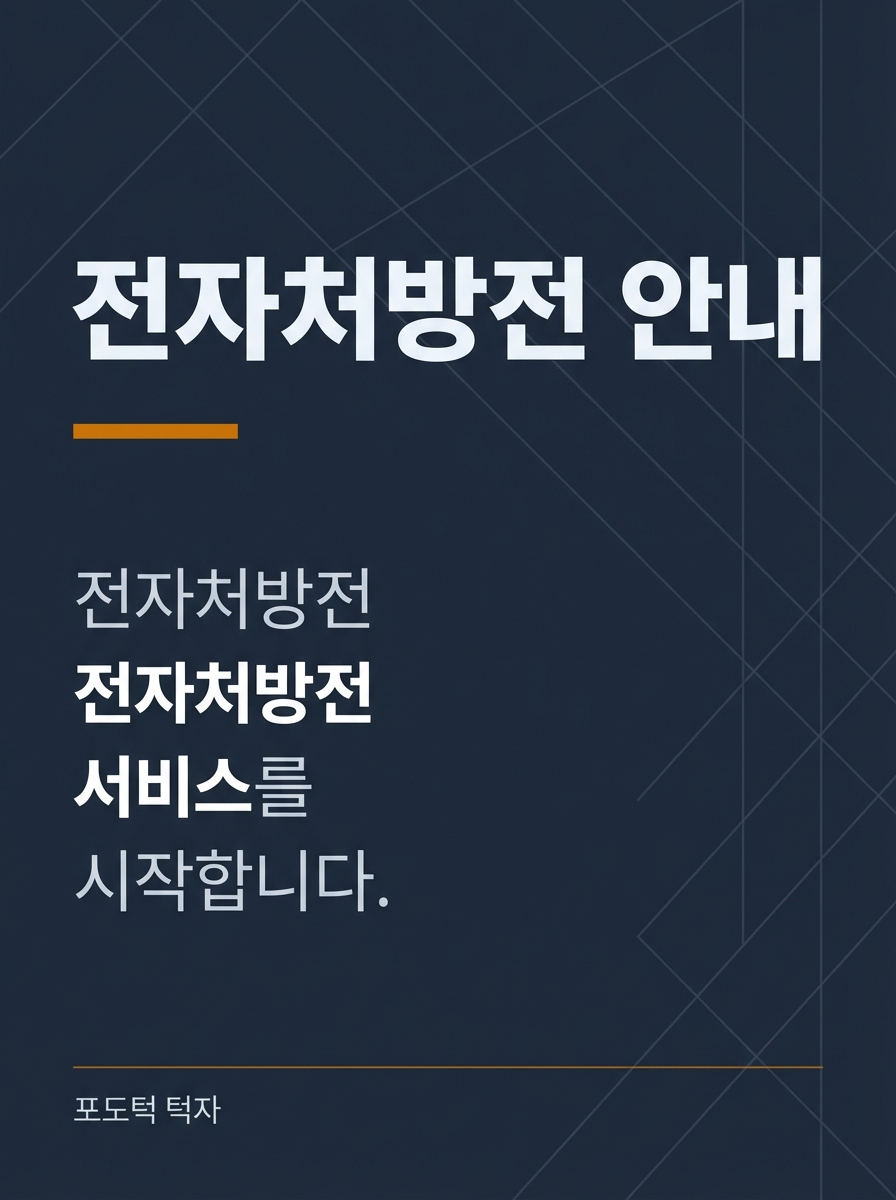
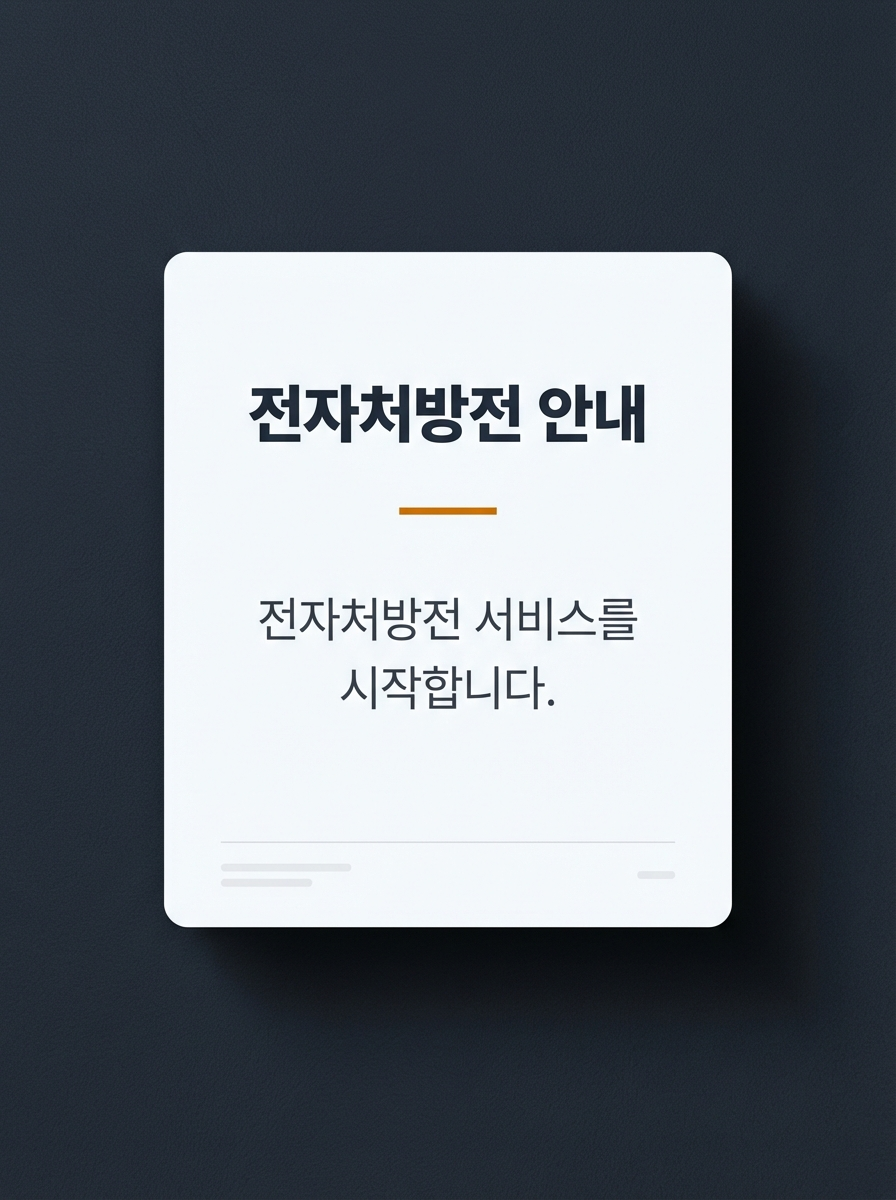
공지 6개 aiPrompt: 물리적 오브제 테마로 전면 교체 + 프리뷰 재생성
각 템플릿에 AI가 반드시 그려야 하는 물리적 오브제 지정:
- clean_white: 베이지 벽 + 마스킹 테이프로 붙인 종이
- soft_blue: 파란 두꺼운 프레임 + 중앙 아이콘 원형
- warm_cream: 코르크보드 + 푸시핀으로 고정된 메모
- mint_fresh: 민트 봉투에서 꺼낸 편지
- slate_modern: 다크 슬레이트 위 플로팅 카드 (그림자)
- peach_soft: 피치 배경 + 와시테이프로 붙인 메모패드

프리뷰 6장 3:4 재생성

https://claude.ai/code/session_0146MbTZpAY12j7EZ6V4viNe

diff --git a/next-app/lib/categoryTemplates.ts b/next-app/lib/categoryTemplates.ts
@@ -804,160 +804,202 @@ Mobile readability: name 28pt+, credentials 12pt+.`,
     {
       id: "ntc_clean_white", name: "클린 화이트", color: "#374151", accent: "#111827", bg: "#ffffff",
       desc: "순백 배경 + 차콜 타이포 + 얇은 라인 — 가장 깔끔한 공지", layoutHint: "minimal",
-      aiPrompt: `[CRITICAL — THIS IS A PREMIUM INSTAGRAM-STYLE POSTER]
+      aiPrompt: `[CRITICAL — THIS IS A DESIGNED NOTICE POSTER WITH PHYSICAL OBJECTS]
 ⛔ STRICT CONTENT RULES:
 - DO NOT add any information the user did not provide.
 - DO NOT generate fake Korean text. Leave areas blank or use only user-provided text.
 - DO NOT add fake disclaimers, footnotes, or fine print.
-- DO NOT invent hospital names, phone numbers, or addresses.
 - ONLY use text the user explicitly provided.
 
-Korean hospital notice poster — EDITORIAL WHITE theme. Think Kinfolk magazine layout.
+Korean hospital notice poster — TAPED PAPER ON BEIGE WALL theme.
 
-VISUAL STRUCTURE — the poster MUST have this specific layout:
-TOP 25%: Pure white space with NOTHING except a tiny gray hospital cross (+) icon at top-center, 8% opacity.
-MIDDLE 50%: A large charcoal (#1e293b) rectangular BLOCK spanning 80% width, centered, with rounded corners (8px). Inside the block: the notice title in MASSIVE bold white text (48pt+). This dark block floating on white is THE signature design element. Below the title inside the block: thin white line (1px) then subtitle in light gray (#94a3b8) if provided.
-BOTTOM 25%: White space. Notice content (if any) in charcoal (#374151) text with generous spacing. Left-aligned with a thin charcoal vertical line (2px) running along the left edge of the text.
+VISUAL CONCEPT: A white sheet of paper taped to a warm beige wall. The paper has real paper texture with subtle creases/folds. Two pieces of light blue masking tape (washi tape) — one at top-left corner, one at bottom-right corner — holding the paper to the wall. The tape looks realistic, slightly wrinkled, semi-transparent.
 
-THE DARK BLOCK IS MANDATORY. Without it, the design has no identity.
-Background is pure white. Only colors: white + charcoal + light gray.
+BACKGROUND (THE WALL): Warm beige/tan (#d4c5a9) with subtle diagonal shadow lines (like sunlight through blinds) at 10% opacity. Real wall texture.
 
-STRICT ANCHORS: Dark charcoal block with white title inside, pure white background, editorial magazine aesthetic.
-INSPIRED FREEDOM: Block proportions, corner radius, icon style.
-Mobile readability: title 44pt+, body 14pt+.`,
+THE PAPER (centered, 80% of image): White paper (#ffffff) with very subtle paper texture and light crease lines. Slightly rotated (-1 to 1 degree) to feel natural/casual. Soft drop shadow behind paper.
+
+ON THE PAPER:
+- Top area: date in small serif gray text if user provided
+- Center: Large title in elegant brown/gold serif typography (40pt+)
+- Below title: thin gray horizontal line
+- Below line: notice content in dark gray (#374151) clean sans-serif text
+- Bottom: thin gray line + hospital name in small text
+
+THE BLUE TAPE AND PAPER TEXTURE ARE MANDATORY. Without them it is just text on white.
+
+STRICT ANCHORS: Beige wall background, white paper with creases, blue masking tape at two corners, shadow lines on wall, serif title, realistic stationery feel.
+Mobile readability: title 36pt+, body 13pt+.`,
     },
+
+
 
 
     {
       id: "ntc_soft_blue", name: "소프트 블루", color: "#1e3a8a", accent: "#3b82f6", bg: "#eff6ff",
       desc: "연한 하늘색 배경 + 네이비 타이포 — 신뢰감 있는 공지", layoutHint: "blue",
-      aiPrompt: `[CRITICAL — THIS IS A PREMIUM INSTAGRAM-STYLE POSTER]
+      aiPrompt: `[CRITICAL — THIS IS A DESIGNED NOTICE POSTER WITH PHYSICAL OBJECTS]
 ⛔ STRICT CONTENT RULES:
 - DO NOT add any information the user did not provide.
 - DO NOT generate fake Korean text. Leave areas blank or use only user-provided text.
 - DO NOT add fake disclaimers, footnotes, or fine print.
-- DO NOT invent hospital names, phone numbers, or addresses.
 - ONLY use text the user explicitly provided.
 
-Korean hospital notice poster — IMMERSIVE BLUE SKY theme. Think airline premium lounge signage.
+Korean hospital notice poster — BLUE FRAME WITH ICON theme.
 
-VISUAL STRUCTURE — the poster MUST have this specific layout:
-ENTIRE BACKGROUND: Deep blue (#1e40af) at top-left corner, radiating outward to sky blue (#60a5fa) at center, fading to very light blue (#eff6ff) at bottom-right. Across the ENTIRE surface: soft glowing circular bokeh lights (6-8 circles, various sizes from tiny to large) in white/light blue at 10-20% opacity. The bokeh creates a dreamy, premium atmosphere EVERYWHERE.
-FLOATING CARD: A frosted white card (rounded 24px, backdrop-blur effect, 88% opacity, border: 0.5px white at 30% opacity) positioned at center, spanning 75% width and 55% height. Inside the card: notice title in deep navy (#0f172a) bold text (36pt+). Below title: thin blue (#60a5fa) line. Content text in navy (#1e3a8a), generous spacing.
-NO TEXT OUTSIDE THE CARD except hospital name in small white at very top on the blue gradient.
+VISUAL CONCEPT: Clean poster with a prominent light blue (#bfdbfe) thick border frame around the entire image. Inside the frame: white background. A large circular icon in the center acts as the visual anchor.
 
-THE BOKEH LIGHTS AND FROSTED CARD ARE MANDATORY. Without them, it is just blue text on blue.
+BACKGROUND: Pure white inside the frame. Light blue (#e0f2fe) outside/behind the frame (visible as the thick border).
 
-STRICT ANCHORS: Full-bleed blue gradient, bokeh light circles, frosted glass card, deep navy text inside card.
-INSPIRED FREEDOM: Bokeh density/sizes, blue shade range, card opacity, gradient direction.
-Mobile readability: title 32pt+, body 13pt+.`,
+FRAME: Light blue (#93c5fd) thick border — 20px on all sides. Creates a clean framed bulletin board feel.
+
+INSIDE THE FRAME:
+- Top 30%: Small label text "NOTICE" in light blue, letter-spacing +4px, uppercase. Below: notice title in MASSIVE bold dark navy (#0f172a) text (44pt+, weight 900).
+- Center 35%: Large circular icon (80px diameter) — light blue (#3b82f6) circle with white simple icon inside (calendar with checkmark, or megaphone, or bell). This icon is THE visual centerpiece.
+- Bottom 35%: Notice content in dark text, centered. Date/time highlighted with light blue background strip.
+
+THE THICK BLUE FRAME AND CENTER ICON ARE MANDATORY.
+
+STRICT ANCHORS: Thick light blue border frame, large circular icon centerpiece, bold dark title, clean white interior, bulletin board aesthetic.
+Mobile readability: title 40pt+, body 13pt+.`,
     },
+
+
 
 
     {
       id: "ntc_warm_cream", name: "웜 크림", color: "#78583d", accent: "#c9a96e", bg: "#faf7f2",
       desc: "따뜻한 크림 배경 + 갈색 타이포 + 골드 악센트 — 고급 공지", layoutHint: "cream",
-      aiPrompt: `[CRITICAL — THIS IS A PREMIUM INSTAGRAM-STYLE POSTER]
+      aiPrompt: `[CRITICAL — THIS IS A DESIGNED NOTICE POSTER WITH PHYSICAL OBJECTS]
 ⛔ STRICT CONTENT RULES:
 - DO NOT add any information the user did not provide.
 - DO NOT generate fake Korean text. Leave areas blank or use only user-provided text.
 - DO NOT add fake disclaimers, footnotes, or fine print.
-- DO NOT invent hospital names, phone numbers, or addresses.
 - ONLY use text the user explicitly provided.
 
-Korean hospital notice poster — LUXURY GOLD STATIONERY theme. Think Cartier invitation card.
+Korean hospital notice poster — CORK BOARD WITH PINNED NOTE theme.
 
-VISUAL STRUCTURE — the poster MUST have this specific layout:
-ENTIRE BACKGROUND: Warm ivory (#faf5ef) with visible LINEN PAPER TEXTURE at 6-8% opacity — the texture must be noticeable, like real luxury stationery paper. The entire surface has a subtle metallic gold shimmer at 3-4% opacity.
-GOLD FRAME: A thin DOUBLE-LINE gold (#c9a96e) rectangular frame (outer line 1px, inner line 0.5px, 4px gap) inset 5% from all edges. Four small gold corner bracket ornaments at frame corners. This frame is THE signature element.
-INSIDE FRAME — TOP: Notice title in warm brown (#5c3d1e) serif-leaning text (36pt+, weight 700). Below title: thin gold line with small diamond centered.
-INSIDE FRAME — MIDDLE: Content text in warm brown (#5c4a32), generous spacing, serif-leaning.
-INSIDE FRAME — BOTTOM: Small gold text for date/hospital name.
+VISUAL CONCEPT: A cork bulletin board texture as the background. A white note card pinned to the board with a colorful push pin at the top center. The note card has a slight shadow and slight rotation for realism.
 
-THE GOLD DOUBLE FRAME WITH CORNER BRACKETS IS MANDATORY.
+BACKGROUND: Cork board texture (#c4a265 to #b8956a) — realistic cork material with visible grain and small dots. Fills entire image.
 
-STRICT ANCHORS: Linen texture, gold double-line frame, corner brackets, warm brown serif text, diamond ornament, luxury stationery mood.
-INSPIRED FREEDOM: Frame thickness, bracket ornament style, serif amount, gold shade.
+THE NOTE CARD: White card (#ffffff) with rounded corners (8px), centered, spanning 80% width and 85% height. Slight rotation (-0.5 to 0.5 degree). Realistic drop shadow (offset 4px, blur 12px). Paper texture visible on the card.
+
+PUSH PIN: At top-center of the card. Realistic 3D push pin — red or gold metallic, with visible pin shaft and shadow. THE key visual element.
+
+ON THE CARD:
+- Top: Notice title in warm brown (#5c3d1e) bold serif text (36pt+)
+- Below title: thin gold (#c9a96e) decorative line with small diamond
+- Middle: Content text in warm brown (#5c4a32), generous spacing
+- Bottom: Date and hospital name in lighter brown
+
+THE CORK TEXTURE AND PUSH PIN ARE MANDATORY.
+
+STRICT ANCHORS: Cork board background, white pinned note card, realistic push pin, paper shadow, warm brown serif typography, bulletin board realism.
 Mobile readability: title 32pt+, body 13pt+.`,
     },
+
+
 
 
     {
       id: "ntc_mint_fresh", name: "민트 프레시", color: "#0f766e", accent: "#10b981", bg: "#f0fdfa",
       desc: "민트 그라데이션 + 다크그린 타이포 — 상쾌한 공지", layoutHint: "mint",
-      aiPrompt: `[CRITICAL — THIS IS A PREMIUM INSTAGRAM-STYLE POSTER]
+      aiPrompt: `[CRITICAL — THIS IS A DESIGNED NOTICE POSTER WITH PHYSICAL OBJECTS]
 ⛔ STRICT CONTENT RULES:
 - DO NOT add any information the user did not provide.
 - DO NOT generate fake Korean text. Leave areas blank or use only user-provided text.
 - DO NOT add fake disclaimers, footnotes, or fine print.
-- DO NOT invent hospital names, phone numbers, or addresses.
 - ONLY use text the user explicitly provided.
 
-Korean hospital notice poster — BOTANICAL MINT GARDEN theme. Think Aesop store interior poster.
+Korean hospital notice poster — LETTER FROM ENVELOPE theme.
 
-VISUAL STRUCTURE — the poster MUST have this specific layout:
-ENTIRE BACKGROUND: Soft mint (#f0fdfa) with watercolor eucalyptus leaves scattered across the ENTIRE surface at 12-18% opacity — at least 8-10 leaf shapes of various sizes and rotations in sage green (#a7f3d0). Creates lush botanical wallpaper effect, NOT just one leaf in a corner.
-HEADER BLOCK: Dark teal (#0f766e) solid rounded rectangle (rounded 14px) at top, spanning 80% width, centered. Inside: notice title in bold white text (36pt+). This teal block on mint+leaves background is THE design signature.
-CONTENT AREA: Below the block. White rounded card (rounded 16px, border: 1px solid #d1fae5) containing content text in dark teal (#134e4a). Emerald (#10b981) left-border accent (3px) beside text.
-BOTTOM: Mint background with leaf scatter continues. Small teal text.
+VISUAL CONCEPT: A mint/sage colored envelope at the bottom, with a white letter/card partially pulled out from it, extending upward. The letter contains the notice content.
 
-THE SCATTERED LEAVES AND TEAL HEADER BLOCK ARE MANDATORY.
+BACKGROUND: Soft mint (#f0fdfa) to white gradient, clean and fresh.
 
-STRICT ANCHORS: Immersive leaf scatter wallpaper, dark teal header block, white content card, emerald accents, botanical wellness mood.
-INSPIRED FREEDOM: Leaf density/type, teal block shape, card style.
-Mobile readability: title 32pt+, body 13pt+.`,
+THE ENVELOPE: At the bottom 25% of image. Mint/sage (#a7f3d0) colored envelope, slightly open at top, realistic paper texture. The flap is open, revealing the letter. Subtle shadow.
+
+THE LETTER: White card/paper extending from the envelope upward, spanning top 75% of image. Clean white with subtle paper texture. Slight shadow separating it from envelope.
+
+ON THE LETTER:
+- Top: Small "NOTICE" label in emerald (#10b981), letter-spacing +3px
+- Center: Notice title in dark teal (#0f766e) bold text (38pt+)
+- Below: thin emerald line
+- Content: dark teal text, generous spacing
+
+THE ENVELOPE AND LETTER-PULLING-OUT EFFECT ARE MANDATORY.
+
+STRICT ANCHORS: Mint envelope at bottom, white letter pulled out, paper textures, teal typography, emerald accents, mail/letter metaphor.
+Mobile readability: title 34pt+, body 13pt+.`,
     },
+
+
 
 
     {
       id: "ntc_slate_modern", name: "슬레이트 모던", color: "#334155", accent: "#64748b", bg: "#f8fafc",
       desc: "연한 슬레이트 배경 + 기하학 라인 — 모던한 공지", layoutHint: "slate",
-      aiPrompt: `[CRITICAL — THIS IS A PREMIUM INSTAGRAM-STYLE POSTER]
+      aiPrompt: `[CRITICAL — THIS IS A DESIGNED NOTICE POSTER WITH PHYSICAL OBJECTS]
 ⛔ STRICT CONTENT RULES:
 - DO NOT add any information the user did not provide.
 - DO NOT generate fake Korean text. Leave areas blank or use only user-provided text.
 - DO NOT add fake disclaimers, footnotes, or fine print.
-- DO NOT invent hospital names, phone numbers, or addresses.
 - ONLY use text the user explicitly provided.
 
-Korean hospital notice poster — DARK SLATE TECH theme. Think Bloomberg terminal or Stripe website.
+Korean hospital notice poster — FLOATING CARD ON DARK SURFACE theme.
 
-VISUAL STRUCTURE — the poster MUST have this specific layout:
-ENTIRE BACKGROUND: Dark warm slate (#1e293b) full bleed — rich, deep, NOT pure black. Across the ENTIRE surface: thin diagonal geometric lines (intersecting at 30 and 150 degree angles) in lighter slate (#334155) at 5-7% opacity. Creates sophisticated dark tech pattern.
-TOP 45%: MASSIVE white (#f1f5f9) title text — 52pt+, weight 900, tight tracking. The white text GLOWS against dark slate. Below title: single SHORT amber (#d97706) horizontal line (3px height, 40px width only). This tiny amber line is the ONLY color in the entire poster — it makes the monochrome design pop.
-MIDDLE 35%: Content text in light gray (#e2e8f0), 14pt, directly on dark slate. NO card. Each item with generous 20px spacing. Important words in pure white, bold. Left-aligned editorial layout.
-BOTTOM 20%: Thin amber line (1px, 30% width). Small stone (#94a3b8) text.
+VISUAL CONCEPT: A white card floating above a dark slate surface, with realistic shadow showing depth/elevation. Like a business card hovering over a dark desk. Clean, architectural, premium.
 
-THE DARK BACKGROUND WITH GEOMETRIC PATTERN AND AMBER ACCENT ARE MANDATORY.
+BACKGROUND: Dark warm slate (#1e293b) surface with subtle leather/matte texture at 5% opacity.
 
-STRICT ANCHORS: Dark slate background, geometric diagonal pattern, massive white title, amber accent lines (only color), editorial left-aligned layout, tech-premium mood.
-INSPIRED FREEDOM: Slate shade, pattern angle, amber line placement.
-Mobile readability: title 48pt+, body 13pt+ (white on slate contrast 12:1+).`,
+THE FLOATING CARD: White card (#f8fafc) at center, spanning 78% width and 70% height. Rounded corners (12px). STRONG realistic drop shadow — offset (0, 8px), blur (24px), spread (4px), rgba(0,0,0,0.25). The shadow creates clear sense of card FLOATING 8px above the dark surface.
+
+ON THE CARD:
+- Top: Notice title in dark charcoal (#1e293b) bold text (36pt+)
+- Below title: short amber (#d97706) accent line (3px height, 40px width) — the only color accent
+- Content: dark gray (#374151) text, generous spacing, left-aligned editorial
+- Bottom of card: thin gray line + small text
+
+THE FLOATING SHADOW EFFECT IS MANDATORY. Card must look physically lifted off the dark surface.
+
+STRICT ANCHORS: Dark slate surface, white floating card with strong shadow, amber accent line, editorial layout, architectural premium mood.
+Mobile readability: title 32pt+, body 13pt+.`,
     },
+
+
 
 
     {
       id: "ntc_peach_soft", name: "피치 소프트", color: "#9a3412", accent: "#f97316", bg: "#fff7ed",
       desc: "연한 피치/살몬 배경 + 따뜻한 브라운 — 부드러운 공지", layoutHint: "peach",
-      aiPrompt: `[CRITICAL — THIS IS A PREMIUM INSTAGRAM-STYLE POSTER]
+      aiPrompt: `[CRITICAL — THIS IS A DESIGNED NOTICE POSTER WITH PHYSICAL OBJECTS]
 ⛔ STRICT CONTENT RULES:
 - DO NOT add any information the user did not provide.
 - DO NOT generate fake Korean text. Leave areas blank or use only user-provided text.
 - DO NOT add fake disclaimers, footnotes, or fine print.
-- DO NOT invent hospital names, phone numbers, or addresses.
 - ONLY use text the user explicitly provided.
 
-Korean hospital notice poster — WARM PEACH GLOW theme. Think trendy cafe announcement.
+Korean hospital notice poster — MEMO PAD WITH WASHI TAPE theme.
 
-VISUAL STRUCTURE — the poster MUST have this specific layout:
-ENTIRE BACKGROUND: Warm peach gradient — vivid peach (#fdba74) at top fading through soft peach (#fed7aa) at middle to warm cream (#fff7ed) at bottom. Across the ENTIRE surface: soft glowing circular BOKEH shapes (8-10 circles, various sizes from tiny to very large) in lighter peach (#ffedd5) and white at 12-18% opacity. Creates dreamy warm sunset glow EVERYWHERE — this is NOT a plain gradient, it is ALIVE with light.
-FLOATING CARD: White card with VERY rounded corners (border-radius 28px), soft warm shadow (rgba(249,115,22,0.15)), positioned at center, spanning 80% width, 50% height. Inside: notice title in deep brown (#78350f) bold text (38pt+, rounded sans-serif). Below: thin coral (#fb923c) line. Content in warm brown (#78350f).
-TOP: On peach gradient above card — hospital name in warm brown, small.
+VISUAL CONCEPT: A warm peach background with a white memo pad/notepad in the center. Colorful washi tape strips at top and bottom of the memo pad. Cute, warm, approachable.
 
-THE BOKEH GLOW AND VERY ROUNDED CARD ARE MANDATORY. Everything must feel WARM, ROUND, SOFT.
+BACKGROUND: Warm peach (#fdba74) to cream (#fff7ed) gradient. Soft, warm, inviting.
 
-STRICT ANCHORS: Immersive peach gradient, bokeh glow circles everywhere, very rounded white card (28px), deep brown title, warm friendly mood.
-INSPIRED FREEDOM: Peach shade, bokeh density/sizes, card radius, gradient warmth.
+THE MEMO PAD: White paper/card at center, spanning 82% width and 78% height. VERY rounded corners (20px). Subtle paper texture. Warm soft shadow.
+
+WASHI TAPE: Two strips of decorative washi tape:
+- Top of memo pad: coral/pink (#fb923c) washi tape strip, slightly diagonal, semi-transparent, with pattern texture (subtle stripes or dots)
+- Bottom of memo pad: different color washi tape (mint or yellow), also slightly diagonal
+
+ON THE MEMO PAD:
+- Title in deep brown (#78350f) bold rounded text (36pt+). Friendly, not corporate.
+- Below: thin coral line
+- Content in warm brown (#78350f), generous spacing
+
+THE WASHI TAPE STRIPS ARE MANDATORY.
+
+STRICT ANCHORS: Peach gradient background, white rounded memo pad, washi tape strips at top/bottom, warm brown text, friendly approachable mood.
 Mobile readability: title 34pt+, body 13pt+.`,
     },
   ],
